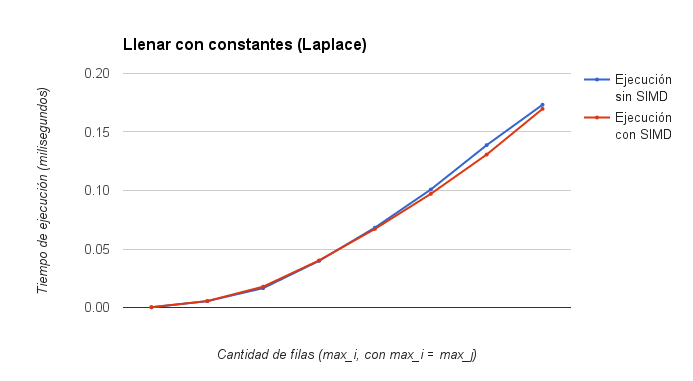
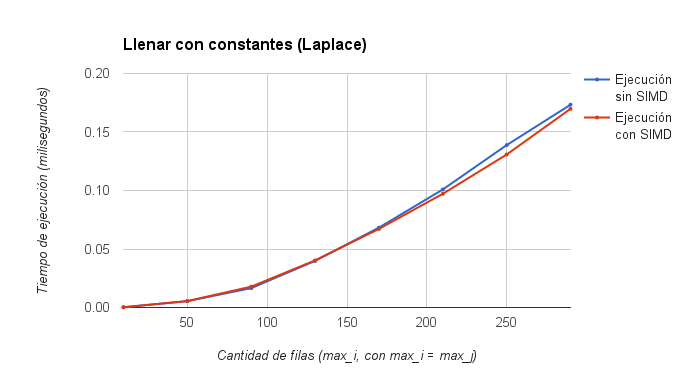
Agrego más experimentos al informe

diff --git a/informe/TP.tex b/informe/TP.tex
@@ -724,6 +724,7 @@ Al mirar cada función, notamos quese dividen en dos clases, las que dependen de
 Decidimos separar los análisis ya que dependiendo de la cantidad de iteraciones, las funciones que dominan el tiempo total de la corrida varía, pesando más las que no dependen de las iteraciones cuando hay pocas y pesando menos (y por lo tanto más las otras) cuando hay muchas.\\
 Para todas las funciones medimos el tiempo total de ejecución en todas las llamadas que se hacen a ellas durante una ejecución del código. Por lo que es esperable observar un tiempo mayor en las que se ejecutan múltiples veces durante una corrida.
 
+\newpage
 \subsubsection{Funciones independientes de la cantidad de iteraciones}
 
 Estas funciones son:
@@ -734,47 +735,181 @@ Estas funciones son:
 \item Calcular un paso de aproximación de la solución de Laplace.
 \item Cálculo del término independiente del sistema a resolver.
 \end{itemize}
-A continuación presentamos los tiempos de ejecución de cada función con y sim SIMD. Para todas ellas se ejcutó el código con $max_i = max_j$ (matriz de discretización cuadrada) y variando $max_i$ (su lado) entre $10$ y $290$ con diferencia de $40$ entre cada tamaño.
-
-\textbf{FALTAN LOS NUMEROS DEL EJE X!!!}
+De la figura \ref{fig:CreateA} a la \ref{fig:CalcTInd} presentamos los tiempos de ejecución de cada función con y sim SIMD. Para todas ellas se ejcutó el código con $max_i = max_j$ (matriz de discretización cuadrada) y variando $max_i$ (su lado) entre $10$ y $290$ con diferencia de $40$ entre cada tamaño.
 
 \begin{figure}[!htbp]
   \centering
 	\includegraphics[scale = 0.7]{images/CreateA.png}
   \caption{Tiempo que demora la función de creación de la matriz A con y sin SIMD}
+	\label{fig:CreateA}
 \end{figure}
 \begin{figure}[!htbp]
   \centering
 	\includegraphics[scale = 0.7]{images/FillWithConstant.png}
   \caption{Tiempo que demora la función que llena una matriz con una constante con y sin SIMD}
+  \label{fig:FillWithConstant}
 \end{figure}
 \begin{figure}[!htbp]
   \centering
 	\includegraphics[scale = 0.7]{images/LaplaceError.png}
   \caption{Tiempo que demora la función de error de convergencia de Laplace con y sin SIMD}
+  \label{fig:LaplaceError}
 \end{figure}
 \begin{figure}[!htbp]
   \centering
 	\includegraphics[scale = 0.7]{images/LaplaceStep.png}
   \caption{Tiempo que demora la función de cálculo de un paso de aproximación de Laplace con y sin SIMD}
+  \label{fig:LaplaceStep}
 \end{figure}
 \begin{figure}[!htbp]
   \centering
 	\includegraphics[scale = 0.7]{images/CalcTInd.png}
   \caption{Tiempo que demora la función de cálculo de término independiente con y sin SIMD}
+  \label{fig:CalcTInd}
 \end{figure}
 
 Observamos que en casi todas se obtienen mucho mejores tiempos con optimizaciones SIMD que sin ellas. La única en la que no se observa una gaancia apreciable es en la de llenar con una constante. Notar que igualmente es la que demora considerablemente menos tiempo, por lo que no influye demasiado en el tiempo total si nos enfocamos en optimizarla mejor.\\
 Por otro lado, como era de esperar, la función que más tiempo demora es la 	que ejecuta los pasos del método de aproximación a la solución de Laplace. Seguida (aunque con un orden de magnitud de tiempo menor) por el cálculo del error de convergencia. Esto tiene sentido ya que son las dos funciones que se ejecutan varias veces en toda la corrida (una vez por cada paso de aproximación). El tiempo de las otras funciones es despreciable con respecto a estas.\\
-Además, notemos que estas dos funciones son en las que se observa mayor ganancia usando SIMD. Para visualizar esto mejor mostramos el siguiente gráfico que mide la proporción entre el tiempo sin SIMD y con SIMD:
+Además, notemos que estas dos funciones son en las que se observa mayor ganancia usando SIMD. Para visualizar esto mejor mostramos el gráfico de la figura \ref{fig:RatioSIMD} que mide la proporción entre el tiempo sin SIMD y con SIMD:
 
 \begin{figure}[!htbp]
   \centering
 	\includegraphics[scale = 0.55]{images/RatioSIMD.png}
   \caption{Razón entre el tiempo que demora cada función con y sin SIMD}
+  \label{fig:RatioSIMD}
 \end{figure}
 Como dijimos anteriormente, en la función paso Laplace logramos observar una ganancia de $3.8$ veces gracias a las optimizaciones SIMD, mientras que en la del error de Laplace observamos ganancias de $2.1$ veces.\\
-Concluimos que para esta clase de funciones, las optimizaciones loran grandes ganancias y las mejores de ellas se encuentran en el cuello de botella del algoritmo.
+Concluimos que para esta clase de funciones, las optimizaciones loran grandes ganancias y las mejores de ellas se encuentran en el cuello de botella del algoritmo.\\
+Además observamos que la proporción de ganancia de cada función parece estabilizarse en un valor a medida que aumenta el tamaño de la matriz, como era de esperar.
+
+\newpage
+\subsubsection{Funciones que dependen de la cantidad de iteraciones}
+Estas funciones son las más importantes, ya que el código está pensado para ejecutarse con un gran número de iteraciones (si bien funciona para un número chico de ellas, el caso de uso más común será con bastantes iteraciones), por lo que esperamos que estas funciones son las que dominen el tiempo total de ejecución.\\
+Las funciones que dependen de las iteraciones son:
+\begin{itemize}
+	\item La función que calcula la nueva matriz $B$ luego de una iteración
+	\item La función que calcula la norma de un vector
+	\item La función que calcula el error de convergencia del método de Jacobi
+	\item La función que calcula un paso del método de Jacobi
+\end{itemize}
+Notar que en cada iteración se ejecuta una vez el método de Jacobi (que a su vez realiza muchas subiteraciones), por lo que la función que actualiza $B$ se ejecuta una sola vez, mientras que el resto se ejecuta una vez por cada subiteración. Igualmente, la convergencia de Jacobi es rápida y no se realizan muchas subiteraciones, a diferencia de lo que pasaba con el método de Laplace.\\
+De la figura \ref{fig:UpdateB} a la \ref{fig:JacobiStep} presentamos los gráficos de comparación entre ejecuciones con y sin SIMD para estas funciones fijando el número de iteraciones en $10.000$ y variando los tamaños de la discretización de igual manera que en los gráficos anteriores.
+
+\begin{figure}[!htbp]
+  \centering
+	\includegraphics[scale = 0.7]{images/UpdateB.png}
+  \caption{Tiempo que demora la función que recalcula la matriz B con y sin SIMD}
+	\label{fig:UpdateB}
+\end{figure}
+\begin{figure}[!htbp]
+  \centering
+	\includegraphics[scale = 0.7]{images/NormVector.png}
+  \caption{Tiempo que demora la función que calcula la norma de un vector con y sin SIMD}
+  \label{fig:NormVector}
+\end{figure}
+\begin{figure}[!htbp]
+  \centering
+	\includegraphics[scale = 0.7]{images/JacobiError.png}
+  \caption{Tiempo que demora la función de error de convergencia de Jacobi con y sin SIMD}
+  \label{fig:JacobiError}
+\end{figure}
+\begin{figure}[!htbp]
+  \centering
+	\includegraphics[scale = 0.7]{images/JacobiStep.png}
+  \caption{Tiempo que demora la función de cálculo de un paso de aproximación de Jacobi con y sin SIMD}
+  \label{fig:JacobiStep}
+\end{figure}
+
+Para esta clase de funciones, si bien la función que más tiempo demora en sus ejecuciones es la que calcula un paso del método de Jacobi como se eperaba, no domina claramente a todas las otras. La función de error de Jacobi tarda sólo la mitad y la de actualizar B tarda la octava parte.\\
+Además, para esta cantidad de iteraciones, actualizar B tarda un tiempo similar al que tarda un paso de Laplace, por lo que si bien el tiempo que demora esta clase de funciones es mayor, no se vuelve completamente despreciable el tiempo de la otra clase de funciones.\\
+\bigskip
+
+Para finalizar los casos de análisis, en la figura \ref{fig:All} comparamos el tiempo total del algoritmo con y sin SIMD.
+
+\begin{figure}[!htbp]
+  \centering
+	\includegraphics[scale = 0.7]{images/All.png}
+  \caption{Tiempo que demora todo el algoritmo con y sin SIMD}
+  \label{fig:All}
+\end{figure}
+Se observa una clara ganancia de tiempo al usar optimizaciones con operaciones SIMD.\\
+\bigskip
+
+Para visualizar mejor la ganancia, en la figura \ref{fig:RatioSIMD2} presentamos un gráfico de proporción de tiempo que demora entre la versión sin y con SIMD. Lo hacemos tanto como las funciones de esta clase como para el tiempo total del algoritmo.
+
+\begin{figure}[!htbp]
+  \centering
+	\includegraphics[scale = 0.55]{images/RatioSIMD2.png}
+  \caption{Razón entre el tiempo que demora cada función con y sin SIMD}
+	\label{fig:RatioSIMD2}
+\end{figure}
+
+Notamos que las funciones que más demoran (error y paso de Jacobi) son tambien las que tienen mayor proporción de ganancia, aunque en este caso la de error tiene mejor proporción que la de un paso de Jacobi, a pesar de que la segunda es mas costosa en total.\\
+Vemos que gracias a esto la proporción entre el tiempo total del algoritmo con y sin SIMD se parece a la ganancia de la función más costosa e incluso es un poco mejor gracias a la mejor proporción del calculo del error de Jacobi.\\
+Observamos una ganancia en el tiempo total del algoritmo de $3.2$ veces gracias a usar las optimizaciones SIMD. Lo consideramos bastante bueno, ya que el máximo teórico era de $4$ ya que optimizamos las operaciones para que se hagan de a cuatro casillas a la vez.\\
+
+\bigskip
+Ahora veremos como afecta al tiempo de estas funciones y al tiempo total del algoritmo variar la cantidad de iteraciones. Para esto fijamos el tamaño de la matriz en $130 \times 130$ y variamos el número de iteraciones entre $10$ y $14010$ con paso de $1000$ iteraciones.\\
+De la figura \ref{fig:UpdateBIter} a la \ref{fig:JacobiStepIter} se pueden ver los resultados obtenidos.
+
+\begin{figure}[!htbp]
+  \centering
+	\includegraphics[scale = 0.7]{images/UpdateBIter.png}
+  \caption{Tiempo que demora la función que recalcula la matriz B con y sin SIMD}
+  \label{fig:UpdateBIter}
+\end{figure}
+\begin{figure}[!htbp]
+  \centering
+	\includegraphics[scale = 0.7]{images/NormVectorIter.png}
+  \caption{Tiempo que demora la función que calcula la norma de un vector con y sin SIMD}
+  \label{fig:NormVectorIter}
+\end{figure}
+\begin{figure}[!htbp]
+  \centering
+	\includegraphics[scale = 0.7]{images/JacobiErrorIter.png}
+  \caption{Tiempo que demora la función de error de convergencia de Jacobi con y sin SIMD}
+  \label{fig:JacobiErrorIter}
+\end{figure}
+\begin{figure}[!htbp]
+  \centering
+	\includegraphics[scale = 0.7]{images/JacobiStepIter.png}
+  \caption{Tiempo que demora la función de cálculo de un paso de aproximación de Jacobi con y sin SIMD}
+  \label{fig:JacobiStepIter}
+\end{figure}
+
+Notamos que en todos los casos, ambos tiempos crecen linealmente al aumentar la cantidad de operaciones. Además, la proporción de ganancia entre usar SIMD y no usarlo se mantiene casi constante al variar la cantidad de iteraciones, por lo que concluímos que la cantidad de iteraciones no influye en la ganancia (en proporción) de las optimizaciones SIMD.\\
+Para visualizarlo mejor, en la figura \ref{fig:RatioSIMD2Iter} presentamos un gráfico con las proporciones de tiempo entre ambas versiones para cada función.
+
+\begin{figure}[!htbp]
+  \centering
+	\includegraphics[scale = 0.55]{images/RatioSIMD2Iter.png}
+  \caption{Razón entre el tiempo que demora cada función con y sin SIMD}
+  \label{fig:RatioSIMD2Iter}
+\end{figure}
+\newpage
+
+\subsubsection{Tiempo total del algoritmo}
+En esta sección vamos a analizar el tiempo total del algoritmo, con y sin SIMD, variando tanto el tamaño de la matriz como la cantidad de iteraciones.\\
+Variamos el tamaño de la matriz entre $10 \times 10$ y $290 \times 290$ con paso de $40$, de manera similar a los casos anteriores. Además, variamos la cantidad de iteraciones entre $1$ y $10000$ multiplicando por $10$ cada vez la cantidad de iteraciones. Vemos los resultados en la figura \ref{fig:TimesAll}.
+\begin{figure}[!htbp]
+  \centering
+	\includegraphics[scale = 0.5]{images/TimesAll.png}
+  \caption{Tiempo que tarda en total el algoritmo con y sin SIMD}
+  \label{fig:TimesAll}
+\end{figure}
+
+Como vemos, hay una gran diferencia entre el tiempo que tarda con $10.000$ iteraciones con respecto al resto, lo que vuelve al resto despreciable. Sin embargo, notamos que en el caso de tiempos con SIMD, el caso de $10.000$ iteraciones se parece mucho más al de $1.000$ sin SIMD que al de $10.000$ sin SIMD. Para apreciar mejor que pasa en los casos con pocas iteraciones presentamos un gráfico en la figura \ref{fig:RatioAll} mostrando la proporción entre el tiempo que tarda con optimizaciones y sin ellas.
+
+\begin{figure}[!htbp]
+  \centering
+	\includegraphics[scale = 0.5]{images/RatioAll.png}
+  \caption{Tiempo que tarda en total el algoritmo con y sin SIMD}
+	\label{fig:RatioAll}
+\end{figure}
+
+Vemos nuevamente que la cantidad de iteraciones del algoritmo casi no influye en la proporción de ganancia por las optimizaciones (aunque hay una ligera pérdida). Además vemos que en todos los casos las ganancia a medida que aumenta el tamaño de la matriz parece estabilizarse entre $3.2$ y $3.5$ veces al usar SIMD y además se alcanza esta proporción rápido (ya con matrices de $50 \times 50$).\\
+Concluímos que la ganancia por las optimizaciones es buena independientemente de la cantidad de operaciones y para matrices no demasiado pequeñas.
+
 \newpage
 \section{Apéndice A: cálculo de temperatura en los electrodos}
 
